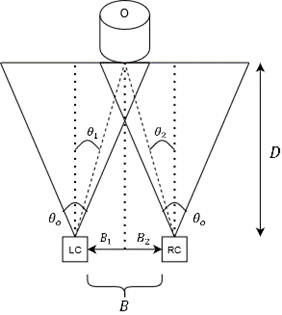
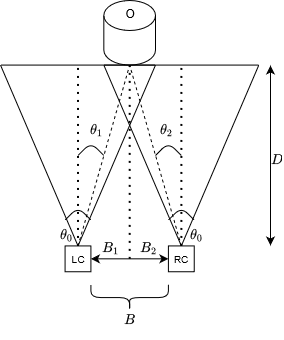
Updating depth.md based on feedback. Updated the diagrams to be transparent.

Changed region(s): [[0.0, 0.0, 1.0, 1.0]]

diff --git a/csfieldguide/chapters/content/en/computer-vision/sections/depth.md b/csfieldguide/chapters/content/en/computer-vision/sections/depth.md
@@ -1,64 +1,75 @@
 # Depth
-Depth is a key part of computer vision, which gives the computer information about the locations of objects relative to the camera.
-For example, a self-driving car would want to know how far away the car ahead of it is to avoid collisions.
-One way of obtaining depth information is by using more than two cameras.
-Stereo vision uses two cameras to take two images. 
-Objects that are close to the cameras will have a greater horizontal disparity in the images, whereas far away objects will have a smaller disparity.
-Here, disparity refers to the difference between the positions of the object in the two images.
-Humans and many other animals also use this technique to obtain depth information.
-Each eye sees a slightly different image, which is used to tell whether an object is close or far away.
+Depth is a critical part of computer vision, which gives the computer information about the distance of objects to the camera. 
+Depth is used in applications like video games, such as [Microsoft's Kinect](https://en.wikipedia.org/wiki/Kinect), and aerial surveys.
+Another significant application is self-driving cars, which need to know how far away the vehicle ahead of it is to avoid collisions. 
+One way of obtaining depth information is through stereo vision, which uses two cameras, usually side by side.
+Both cameras take a picture of the same scene.
+Objects that appear in both images will be at different positions, where the disparity is the difference between the positions.
+Objects close to the cameras will have a larger horizontal disparity in the images, whereas faraway objects will have a smaller disparity.
+Humans and many other animals also use this technique to obtain depth information. 
+Each eye sees a slightly different image which the brain uses to tell whether an object is close or far away.
 
-## The Maths...
+## Distance from stereo images
 One possible method of programmatically obtaining the distance to an object from stereo images is detailed below. 
 Other methods may provide better or worse results, but the following one is (relatively) simple. 
 For those looking to learn more, the full paper this was inspired by can be found [here](https://www.researchgate.net/publication/320336266_Distance_Measurement_for_Self-Driving_Cars_Using_Stereo_Camera).
-Only the situation where the object is horizontally between the two camera positions is considered here.
+This section only considers the situation where the object is horizontally between the two camera positions.
 
 
-The same camera should be used to take both pictures. 
-An important aspect of the camera we need to know its angle of view, which is the horizontal angle that the camera can see.
-If you cannot find the technical specifications of your camera, there is an easy way to obtain this. 
-Prop a ruler up vertically.
-Then, take a picture of the ruler, aligning the start of the ruler with the left edge of the photo. 
-Ensure that ruler exceeds the width of the photo (the right end is not visible) and measure the distance between the camera and the ruler (e.g. by using another ruler).
+### Calculating the angle of view
+An aspect of the camera we need to know is its angle of view. This value is the horizontal angle that the camera can see.
+If you cannot find the technical specifications of your camera, there is an easy way to obtain this.
+Prop a ruler up horizontally.
+Then, take a picture of the ruler, aligning the start of the ruler with the left edge of the photo.
+Ensure that ruler fills the entire photo (the right end is not visible). Also, measure the distance between the camera and the ruler (e.g. by using another ruler).
+An example picture is shown below.
 
-{image file-path="img/chapters/ruler-angle-of-view.PNG" alt="A diagram showing the components of the ruler technique."}
+{image file-path="img/chapters/angle-of-view-ruler.jpg" alt="An example of taking a picture of a ruler."}
 
-As seen in the diagram, finding the angle of view becomes a very simple trigonometry problem. 
-We obtain the follow equation to obtain the half angle of view.
+{image file-path="img/chapters/angle-of-view-ruler.png" alt="A diagram showing the components of the ruler technique."}
+
+As seen in the diagram above, finding the angle of view becomes a simple trigonometry problem.
+We derive the following equation for calculating the half angle of view.
 
 \[
 \theta = \tan^{-1}\frac{r}{2d}
 \]
 
-Where \(r\) is the length of the ruler visible in the picture and \(d\) is the distance of the ruler from the camera.
-Doubling the half angle of view gives us the full angle of view, \(\theta_0\). 
-When using the camera for the next part, it is important that you use the same camera settings (e.g. zoom level) so that the angle of view does not change.
+\(r\) is the length of the ruler visible in the picture. \(d\) is the distance from the camera to the ruler.
+Doubling the half angle of view gives us the full angle of view, \(\theta_0\).
+When using the camera for the next part, you should use the same camera settings (e.g. zoom level) to ensure the angle of view does not change.
 Below is a calculator to calculate the angle of view.
 
 {interactive slug="angle-of-view-calculator" type="in-page"}
 
 
-Two stereo pictures are taken of an object, where the object is between the two camera positions.
-A diagram showing the setup can be seen below.
-For both pictures, the cameras should be pointing in the same direction such that the axes of view are parallel (or as close as you can get).
+### Calculating the distance
+Typically, a stereo vision system would use two identical cameras, but you can simulate this with one camera by taking two photos of a still object.
+Take two stereo pictures of an object where it is between the two camera positions.
+Use the same camera to take both images.
+The diagram below shows the setup.
+For both pictures, the camera should be pointing in the same direction such that the axes of view are parallel (or as close as you can get).
 A possible way of ensuring they are as parallel as possible is to align the camera with a straight line on the floor.
 Note down the distance between the camera positions and the actual distance to the object with rulers or measuring tape.
 
 {image file-path="img/chapters/stereo-vision-diagram-1.PNG" alt="A diagram showing the main setup."}
 
-\(\theta_0\) is the camera’s angle of view, which is the same for both cameras as the same camera is used for both pictures.
+\(\theta_0\) is the camera angle of view, which is the same for both cameras as you used the same camera for both pictures.
 \(B_1\) and \(B_2\) are the distances between the centre of the object and the left and right camera, respectively.
 Their sum is \(B\), the distance between the cameras.
-\(\theta_1\) and \(\theta_2\) is the angle between the camera's axis of view and the line going from the camera to the object.
+\(\theta_1\) and \(\theta_2\) are the angles between the camera's axis of view and the line going from the camera to the object.
 Finally, \(D\) is the distance to the object.
 
 
-A triangle is formed by the left camera LC, the right camera RC, and the object O, which is comprised of two right-angle triangles as seen below.
+{panel type="curiosity"}
+
+# Derivation of the formula
+
+The left camera, LC, the right camera, RC, and the object, O, form a triangle. This triangle is comprised of two right-angle triangles as shown below.
 
 {image file-path="img/chapters/stereo-vision-diagram-2.PNG" alt="A diagram showing the main setup."}
 
-From basic trigonometry, it is known that θ_1 and θ_2 are the same as those in Figure 1. 
+From basic trigonometry, it is known that \(θ_1\) and \(θ_2\) are the same as those in Figure 1. 
 Using trigonometry, the following can be derived:
 
 \[
@@ -67,10 +78,13 @@ B_2 = D tan \theta_2
 \]
 
 Therefore:
+
 \[
 B = D tan \theta_1 + D tan \theta_2\\
-B = D(tan \theta_1 + tan \theta_2)\\
-D = \frac{B}{tan \theta_1 + tan \theta_2}
+B = D(tan \theta_1 + tan \theta_2)
+\]
+\[
+D = \frac{B}{tan \theta_1 + tan \theta_2} \tag{1}
 \]
 
 
@@ -79,53 +93,63 @@ Think of each image as a grid, where the origin is the centre of the image.
 
 {image file-path="img/chapters/stereo-vision-diagram-3.PNG" alt="A diagram showing the main setup."}
 
-\(x_0\) is the width of the image in pixels. 
+\(x_0\) is the width of the image in pixels.
 The terms \(x_1\) and \(x_2\) are the x-coordinates of the object in the left and right images, respectively.
 As an example, consider the left view.
 There are two right-angle triangles, both of which share the side \(D\).
-The smaller triangle has a top that goes up to \(x1\).
-This is also the top's length, as \(x1\) is the x-coordinate where the centre is the origin.
-The bigger triangle has a top that goes up to the end of the image.
+The smaller triangle has a top that goes up to the \(x1\) point.
+\(x1\) is also the top's length, as it is the x-coordinate where the centre is the origin.
+The larger triangle has a top that goes up to the end of the image.
 Using the smaller triangles in both views, we know the following using some basic trigonometry.
 
 \[
-D = \frac{x_1}{tan\theta_1}\\
-D = \frac{-x_2}{tan\theta_2}
+D = \frac{x_1}{tan\theta_1}\\ \tag{2}
+\]
+\[
+D = \frac{-x_2}{tan\theta_2} \tag{3}
 \]
 
-\(x_2\) is negated as widths should be positive.
-Now consider the bigger triangles.
-As they go up to the end of the image, their widths are half of the width of the image, \(x_0\).
-More trigonometry ensues...
+We negate \(x_2\) as widths should be positive.
+Now consider the larger triangles.
+As they go up to the end of the image, the width of their tops are half of the image width, \(x_0\).
+More trigonometry ensues.
 
 \[
-D = \frac{frac{x_0}{2}}{tan\frac{\theta_0}{2}}
+D = \frac{\frac{x_0}{2}}{tan\frac{\theta_0}{2}} \tag{4}
 \]
 
 Equating equations (2) and (4), we get:
 
 \[
-\frac{x_1}{tan\theta_1} = \frac{frac{x_0}{2}}{tan\frac{\theta_0}{2}}\\
-tan\theta_1 = x_1 \div \frac{frac{x_0}{2}}{tan\frac{\theta_0}{2}}\\
-tan\theta_1 = \frac{2 x_1 tan \frac{\theta_0}{2}}{x_0}
+\frac{x_1}{tan\theta_1} = \frac{\frac{x_0}{2}}{tan\frac{\theta_0}{2}}\\
+tan\theta_1 = x_1 \div \frac{\frac{x_0}{2}}{tan\frac{\theta_0}{2}}
+\]
+\[
+tan\theta_1 = \frac{2 x_1 tan \frac{\theta_0}{2}}{x_0} \tag{5}
 \]
 
 Similarly, equating equations (3) and (4), we get:
 
 \[
-\frac{-x_2}{tan\theta_2} = \frac{frac{x_0}{2}}{tan\frac{\theta_0}{2}}\\
-tan\theta_2 = -x_2 \div \frac{frac{x_0}{2}}{tan\frac{\theta_0}{2}}\\
-tan\theta_2 = \frac{-2 x_2 tan \frac{\theta_0}{2}}{x_0}
+\frac{-x_2}{tan\theta_2} = \frac{\frac{x_0}{2}}{tan\frac{\theta_0}{2}}\\
+tan\theta_2 = -x_2 \div \frac{\frac{x_0}{2}}{tan\frac{\theta_0}{2}}
+\]
+\[
+tan\theta_2 = \frac{-2 x_2 tan \frac{\theta_0}{2}}{x_0} \tag{6}
 \]
 
 We're nearly there! Adding equations (5) and (6) gives:
 
 \[
-tan\theta_1 + tan\theta_2 = \frac{2 x_1 tan \frac{\theta_0}{2}}{x_0} + \frac{-2 x_2 tan \frac{\theta_0}{2}}{x_0}\\
-tan\theta_1 + tan\theta_2 = \frac{2 tan \frac{\theta_0}{2} (x_1 - x_2)}{x_0}
+tan\theta_1 + tan\theta_2 = \frac{2 x_1 tan \frac{\theta_0}{2}}{x_0} + \frac{-2 x_2 tan \frac{\theta_0}{2}}{x_0}
+\]
+\[
+tan\theta_1 + tan\theta_2 = \frac{2 tan \frac{\theta_0}{2} (x_1 - x_2)}{x_0} \tag{7}
 \]
 
-Substituting (7) back into (1) gives us our final equation:
+Substituting (7) back into (1) gives us our final equation.
+
+{panel end}
 
 \[
 D = \frac{B x_0}{2 tan \frac{\theta_0}{2} (x_1 - x_2)}
@@ -133,8 +157,14 @@ D = \frac{B x_0}{2 tan \frac{\theta_0}{2} (x_1 - x_2)}
 
 \((x_1 - x_2)\) is the disparity of the objects in the pictures.
 However, the disparity will be the same no matter what we choose as the origin of the coordinate system.
-As such, we can treat \(x_1\) as the x-coordinate of the pixel from the left of the left image, and \(x_2\) as the x-coordinate of the pixel from the left of the right image.
-Thus, we can determine the distance of an object from the cameras only with the distance between the cameras \(B\), the width of the images in pixels \(x_0\), the angle of view \(x_0\), and the x-coordinates of the objects in the images \(x_1\) and \(x_2\).
+Therefore, we can treat \(x_1\) as the x-coordinates of the object from the left of the left image. Similarly, \(x_2\) is the x-coordinates of the object from the left of the right image.
+To summarise, we can determine the distance to an object using only the following:
+
+- The distance between the cameras, \(B\).
+- The width of the images in pixels, \(x_0\).
+- The angle of view, \(\theta_0\).
+- The x-coordinates of the object in the images, \(x_1\) and \(x_2\).
+
 The following interactive shows the equation in action.
 
 {interactive slug="distance-from-stereo-images" type="whole-page" text="true"}
@@ -143,28 +173,28 @@ Distance from stereo images
 
 {interactive end}
 
-{panel type="curiosity"}
+{panel type="challenge"}
 
 # What about far away objects?
 
 Try placing a small object far away (e.g. five metres) with a small gap between camera positions (e.g. five centimetres).
 The interactive may produce a number much further than the actual distance.
-The problem is that the x-coordinates of the object in both pictures are very close, resulting in a very small disparity.
-Can you see in the equation why having a small disparity would cause the calculated distance to be large?
+The problem is that the x-coordinates of the object in both pictures are very close, resulting in a minuscule disparity.
+Can you see in the equation why a small disparity would cause the calculated distance to be large?
 
 {panel end}
 
-{panel type="curiosity"}
+{panel type="spoiler"}
     
 # The solution?
 
-We can use higher resolution photos. 
-In the interactive, uploaded images have a maximum width.
-If the width was larger, there would be more freedom to select a point that is closer to the object's centre.
-Therefore the disparity would be more accurate.
-However, higher resolution cameras are more expensive. 
-For a self-driving car, does it matter that it is able to to calculate accurate distances to a very far away object?
-Is there a point in which the car no longer cares about an object?
-What resolution cameras would be sufficient?
+We can increase the gap between camera positions.
+This change will increase the disparity of the object in the images, allowing a more accurate calculated value.
+In general, the further the object, the larger the gap should be.
+However, if we used a larger gap, we sacrifice the accuracy of distance calculations to very close objects.
+As such, choosing a gap distance requires a tradeoff.
+For a self-driving car, does it matter whether it can calculate accurate distances to a distant object?
+Is there a cutoff distance in which the car no longer cares about an object?
+How could a car deal with both near and far obstacles?
 
 {panel end}

diff --git a/csfieldguide/static/interactives/distance-from-stereo-images/README.md b/csfieldguide/static/interactives/distance-from-stereo-images/README.md
@@ -3,3 +3,4 @@
 **Original Author:** Jackie Qiu
 
 This interactive is created to show obtaining distance information from two stereo images.
+The link to the diagrams in the Depth section can be found [here](https://drive.google.com/file/d/1nAVHKnhzE_Mb8bM2hJ22p_45v8xdnY1O/view?usp=sharing).
